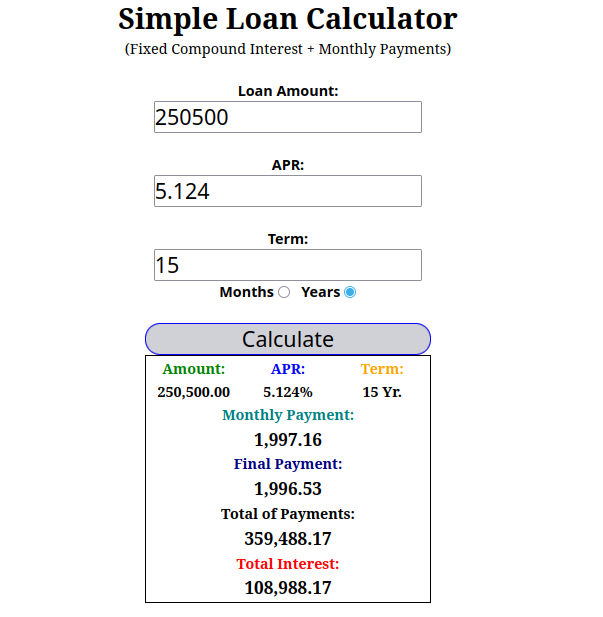
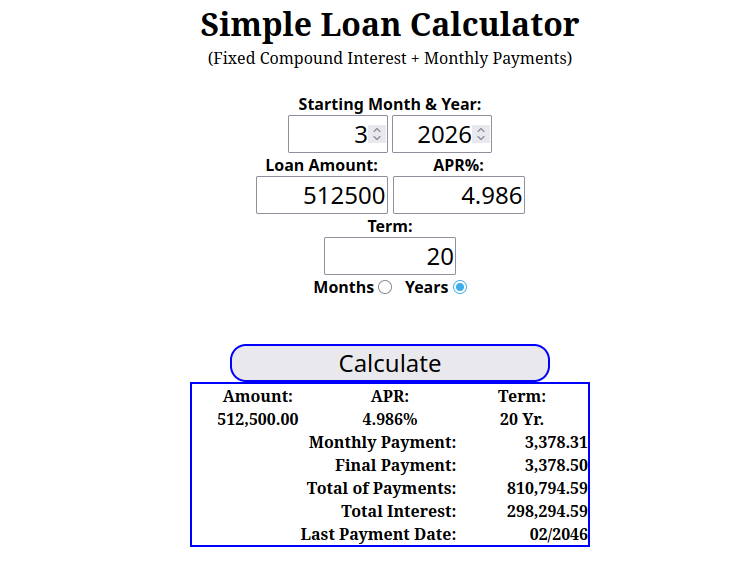
Updated decimal separator recognition

Changed region(s): [[0.1791, 0.0, 0.806, 0.9894]]

diff --git a/loan_calculator.html b/loan_calculator.html
@@ -178,7 +178,7 @@
             Simple Loan Calculator
         </h1>
         <p>(Fixed Compound Interest + Monthly Payments)</p><br />
-        <label for="idstart">Starting Month & Year:</label><br />
+        <label for="idstart">Starting Month &amp; Year:</label><br />
         <input type="number" id="idmonth" min="1" max="12" />
         <input type="number" id="idyear" min="2026" /><br />
         <div style="display:flex;align-items:center;justify-content:center">
@@ -193,12 +193,12 @@
         </div>
         <label for="idterm">Term:</label><br />
         <input type="text" id="idterm" /><br />
-        <buttongroup id="idtermtype" name="natermtype">
+        <fieldset id="idtermtype" name="natermtype" style="border:none">
             <label for="idtermmonths">Months</label>
             <input type="radio" id="idtermmonths" name="natermtype" value="m" />
             &nbsp;&nbsp;<label for="idtermyears">Years</label>
             <input type="radio" id="idtermyears" name="natermtype" value="y" checked />
-        </buttongroup>
+        </fieldset>
         <br /><br />
         <button type="button" id="idcalc" disabled>Calculate</button>
         <table id="idtblsum">
@@ -291,8 +291,8 @@
         const HDR =
             `
         <tr>
-            <td colspan="7" class="clslrgr">Amortization Schedule&nbsp;&nbsp;
-            <button id="idamorttype" type="button" onclick="amortByYear()">Details By Year</button></td>
+            <td colspan="7" class="clslrgr">Monthly Amortization Schedule&nbsp;&nbsp;
+            <button id="idamorttype" type="button" onclick="amortByYear()">Yearly Summary</button></td>
         </tr>
         <tr>
             <td>&numero;</td>
@@ -336,8 +336,8 @@
         const HDR =
             `
         <tr>
-            <td colspan="5" class="clslrgr">Amortization Schedule&nbsp;&nbsp;
-            <button id="idamorttype" type="button" onclick="amortByMonth()">Details By Month</button></td>
+            <td colspan="5" class="clslrgr">Yearly Summary&nbsp;&nbsp;
+            <button id="idamorttype" type="button" onclick="amortByMonth()">Monthly Schedule</button></td>
         </tr>
         <tr>
             <td>&numero;</td>
@@ -400,6 +400,9 @@
         // console.log(payback);
         return [Math.roundHalfEven(pmt), Math.floor(payback)];
     }
+    function decimalSep() {
+        return nstr = (0.1).toLocaleString().slice(-2, -1);
+    }
     function fillSummary(amt, ratea, terma, termb, pmt, ttlpay, lastpay) {
         iddsplyamt.innerHTML = fmtFromCents(amt);
         iddsplyapr.innerHTML = ratea + "%";
@@ -413,11 +416,11 @@
         iddsplylastpay.innerHTML = lastpay;
     }
     function fmtFromCents(x) {
-        return Math.floor(x / 100).toLocaleString() + "." + String(x % 100).padStart(2, '0');
+        return Math.floor(x / 100).toLocaleString() + decimalSep() + String(x % 100).padStart(2, '0');
     }
     function inpChanged(e) {
-        const rxamount = new RegExp(/^\s*\$?(\d+|\d{1,3}(,\d{3})*)\s*$/);
-        const rxapr = new RegExp(/^\s*(\d+(\.\d*)?|\.\d+)%?\s*$/);
+        const rxamount = new RegExp(/^\s*(\d+|\d{1,3}([,\.]\d{3})*)\s*$/);
+        const rxapr = new RegExp(/^\s*(\d+([\.,]\d*)?|[\.,]\d+)%?\s*$/);
         const rxterm = new RegExp(/^\s*\d+\s*$/);
         let el = e.srcElement;
         if (el.id.startsWith("idterm"))
@@ -427,8 +430,8 @@
             case "idamount":
                 mat = idamount.value.match(rxamount);
                 if (!mat) break;
-                n = Number(mat[0].replace(/[$,]/g, ''));
-                valid = n >= 100 && n < 1e11;
+                n = Number(mat[0].replace(/[,\.]/g, ''));
+                valid = n >= 100 && n < 1e11 && Number.isInteger(n);
                 break;
             case "idapr":
                 mat = idapr.value.match(rxapr);
@@ -511,7 +514,7 @@
             return Math.floor(x) % 2 ? Math.ceil(x) : Math.floor(x);
         }
         const nxt = nextMonthYear();
-        idmonth.value = nxt[0] + 1;/*zero-based to one-based*/
+        idmonth.value = nxt[0] + 1;/*to one-based*/
         idyear.value = nxt[1];
         idmonth.focus();
     }

diff --git a/README.md b/README.md
@@ -1,7 +1,6 @@
 ### Loan Calculator with Amortization Table
 
-#### Basic compound interest loan calculator using HTML, Javascript and CSS, that tries to get the rounding correct to the 1/100th of a ($£€¥₨...) along with the amortization table entries. This was designed specifically for numeric formats with '.'(DOT) as decimal separator and ','(COMMA) as group separator. 
-
+#### Basic compound interest loan calculator using HTML, Javascript and CSS, that tries to get the rounding correct to the 1/100th of a ($£€¥₨...) along with the amortization table entries (Monthly detail as well as Yearly summary). This app should work with either '.' or ',' as the locale decimal separator.
 #### Modify as needed...
 
 <img src="loan calc 1.png" alt="Data Entry and Basic Info Area"></img>
